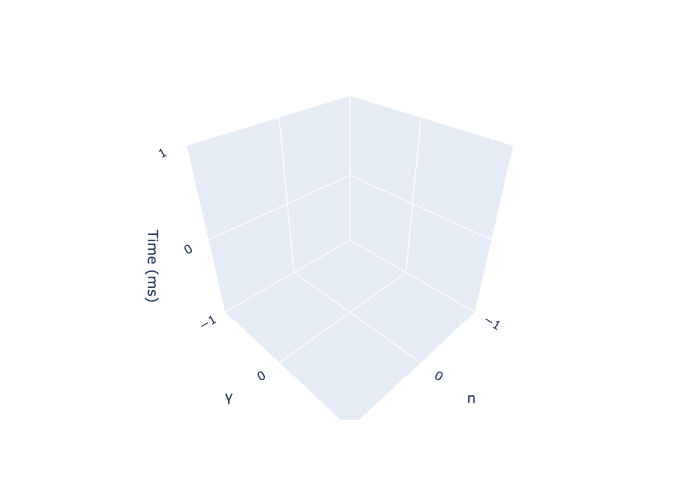
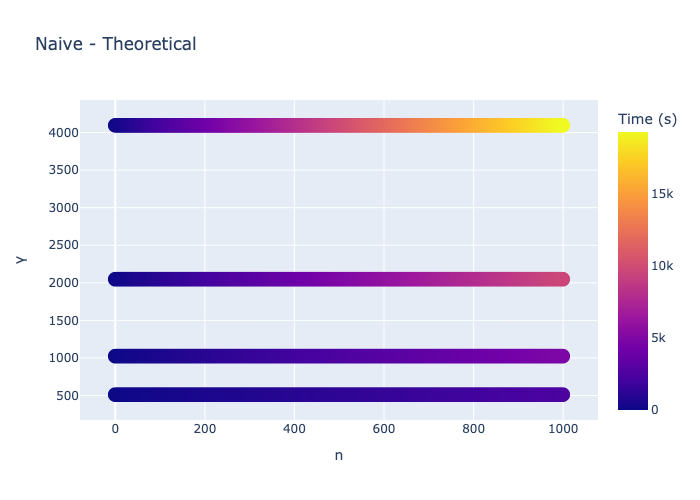
Theoretical time plots of matrix-vector multiplication generated

diff --git a/plot_generation.py b/plot_generation.py
@@ -460,9 +460,9 @@ def plot_errors():
     color2 = "red"
     color1 = "Polynomial Approx"
     color2 = "Goldschmidt"
-    data_dict = {"Worst L2 Error":worst_errors, "Multiplicative Depth":mult_depth, "colors":[color1,color2,color2,color2,color2]}
+    data_dict = {"Max L2 Error":worst_errors, "Multiplicative Depth":mult_depth, "colors":[color1,color2,color2,color2,color2]}
     df = pandas.DataFrame(data_dict)
-    fig = px.scatter(df,x="Multiplicative Depth",y="Worst L2 Error",color="colors")
+    fig = px.scatter(df,x="Multiplicative Depth",y="Max L2 Error",color="colors")
     
     fig.update_traces(marker=dict(size=12,
                               line=dict(width=2,
@@ -517,37 +517,137 @@ def plot_matmul_performance():
     fig.write_image(fig_file_name)
 
 def plot_matmul_performance_theoretical():
-    ns = [i for i in range(600)]
-    gamma = [2**i for i in range(9,15)]*100
+
+    #these values are the averages of 10,000 runs with coef modulus of 200 to allow mult depth of 2
+    mult_time_plain_naive = 0.622412
+    mult_time_naive = 2.41118
+    rot_time_naive = 1.66967
+    
+    #these values are the averages of 10,000 runs with coef modulus of 160 to allow mult depth of 1
+    mult_time_plain = 0.431768
+    mult_time = 1.5252
+    rot_time = 1.01993
+
+    ns = [i for i in range(0,1000)]
+    gamma = [2**i for i in range(9,13)]#*100
+    
+    
     time = []
-    
+    N = []
+    Gamma = []
     for gam in gamma:
-        temp = []
         for n in ns:
-            temp.append(2*n*gam + n*gam)
-        time.append(temp)
+            time.append((n*gam*mult_time_naive + n*gam*mult_time_plain_naive + n*gam*rot_time_naive)/1000)
+            N.append(n)
+            Gamma.append(gam)
     
-    print(len(ns),len(gamma),len(time))
-    data_dictTime = {"n":ns,"γ":gamma,"Time (ms)":time}
-
+    data_dictTime = {"n":N,"γ":Gamma,"Time (s)":time}
     dfTime = pandas.DataFrame(data_dictTime)
+    figTime = px.scatter(dfTime,x="n",y="γ",color="Time (s)",title="Naive - Theoretical")
     
-    
-    #print(data_dictTime["Time (ms)"])
-    figTime = px.scatter_3d(dfTime,x="n",y="γ",z="Time (ms)")#,color=" ")
-    
-    #figTime = go.Figure(go.Surface(x = ns, y = gamma, z = time))
-
-    #this line from https://plotly.com/python/3d-surface-plots/
-    """figTime.update_layout(
-        scene = {
-            "xaxis": {"nticks": 20, "label":"dog"},
-            "zaxis": {"nticks": 4},
-            #'camera_eye': {"x": 0.5, "y": -1, "z": -0.5},
-            "aspectratio": {"x": 1, "y": 1, "z": 0.5}
-        })"""
+    figTime.update_traces(marker=dict(size=15),
+              selector=dict(mode='markers'))
     
     figTime.write_image("figures/TheoreticalTime_Naive.png")
+    
+    time = []
+    for gam in gamma:
+        for n in ns:
+            time.append((n*gam*mult_time_plain + n*rot_time)/1000)
+
+    
+    data_dictTime = {"n":N,"γ":Gamma,"Time (s)":time}
+    dfTime = pandas.DataFrame(data_dictTime)
+    figTime = px.scatter(dfTime,x="n",y="γ",color="Time (s)",title="Hybrid - Theoretical")
+    
+    figTime.update_traces(marker=dict(size=15),
+              selector=dict(mode='markers'))
+    
+    figTime.write_image("figures/TheoreticalTime_Hybrid.png")
+    
+    
+    time = []
+    for gam in gamma:
+        for n in ns:
+            time.append((gam*mult_time_plain)/1000)
+
+    
+    data_dictTime = {"n":N,"γ":Gamma,"Time (s)":time}
+    dfTime = pandas.DataFrame(data_dictTime)
+    figTime = px.scatter(dfTime,x="n",y="γ",color="Time (s)",title="SIMD - Theoretical")
+    
+    figTime.update_traces(marker=dict(size=15),
+              selector=dict(mode='markers'))
+    
+    figTime.write_image("figures/TheoreticalTime_SIMD.png")
+    
+def plot_matmul_performance_theoretical_subplots():
+
+    #these values are the averages of 10,000 runs with coef modulus of 200 to allow mult depth of 2
+    mult_time_plain_naive = 0.622412
+    mult_time_naive = 2.41118
+    rot_time_naive = 1.66967
+    
+    #these values are the averages of 10,000 runs with coef modulus of 160 to allow mult depth of 1
+    mult_time_plain = 0.431768
+    mult_time = 1.5252
+    rot_time = 1.01993
+
+    ns = [i for i in range(0,1000)]
+    gamma = [2**i for i in range(9,13)]#*100
+    
+    
+    time = []
+    N = []
+    Gamma = []
+    for gam in gamma:
+        for n in ns:
+            time.append((n*gam*mult_time_naive + n*gam*mult_time_plain_naive + n*gam*rot_time_naive)/1000)
+            N.append(n)
+            Gamma.append(gam)
+    
+    data_dictTime = {"n":N,"γ":Gamma,"Time (s)":time}
+    dfTime = pandas.DataFrame(data_dictTime)
+    
+    figTime = make_subplots(rows=1, cols=3)
+    
+    figTime.add_trace(go.Scatter(dfTime,x="n",y="γ",color="Time (s)", row=1, col=1))
+    
+    
+    
+    #figTime.write_image("figures/TheoreticalTime_Naive.png")
+    
+    time = []
+    for gam in gamma:
+        for n in ns:
+            time.append((n*gam*mult_time_plain + n*rot_time)/1000)
+
+    
+    data_dictTime = {"n":N,"γ":Gamma,"Time (s)":time}
+    dfTime = pandas.DataFrame(data_dictTime)
+    #figTime = px.scatter(dfTime,x="n",y="γ",color="Time (s)",title="Hybrid - Theoretical")
+    figTime.add_trace(go.Scatter(dfTime,x="n",y="γ",color="Time (s)", row=1, col=2))
+
+    
+    #figTime.write_image("figures/TheoreticalTime_Hybrid.png")
+    
+    
+    time = []
+    for gam in gamma:
+        for n in ns:
+            time.append((gam*mult_time_plain)/1000)
+
+    
+    data_dictTime = {"n":N,"γ":Gamma,"Time (s)":time}
+    dfTime = pandas.DataFrame(data_dictTime)
+    #figTime = px.scatter(dfTime,x="n",y="γ",color="Time (s)",title="SIMD - Theoretical")
+    figTime.add_trace(go.Scatter(dfTime,x="n",y="γ",color="Time (s)", row=1, col=3))
+        
+    figTime.update_traces(marker=dict(size=15),
+              selector=dict(mode='markers'))
+    
+    figTime.write_image("figures/TheoreticalTimes.png")
+    
 
 if __name__ == "__main__":
     #plot_dataset()
@@ -557,5 +657,6 @@ if __name__ == "__main__":
     #plot_results()
     #plot_poly_results()
     #plot_errors()
-    #plot_matmul_performance();
-    plot_matmul_performance_theoretical();
+    #plot_matmul_performance()
+    #plot_matmul_performance_theoretical()
+    plot_matmul_performance_theoretical_subplots()
